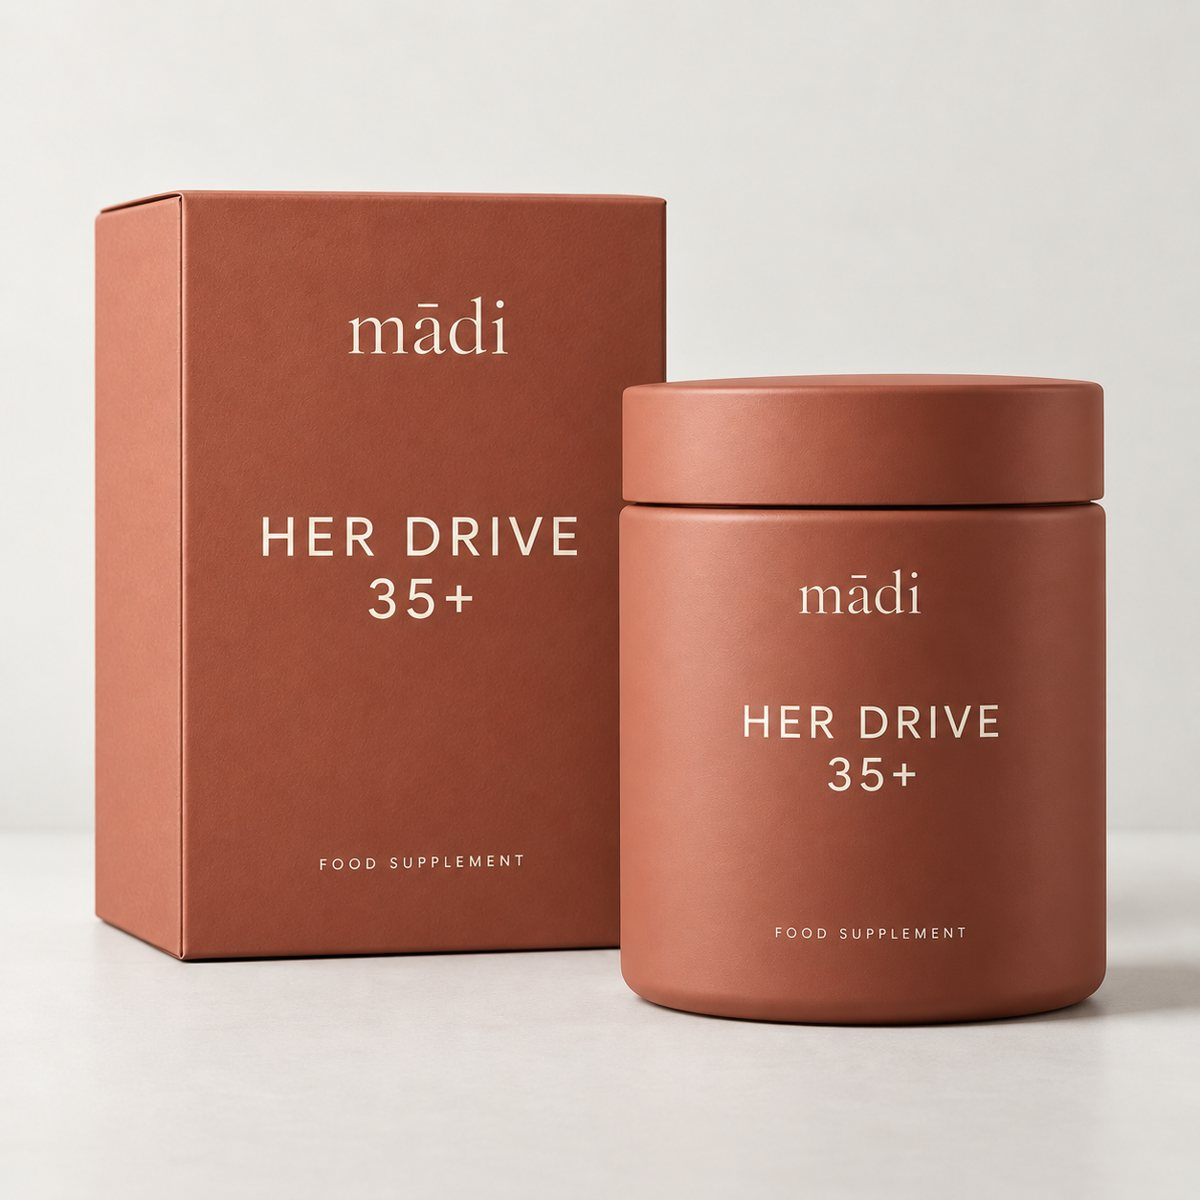
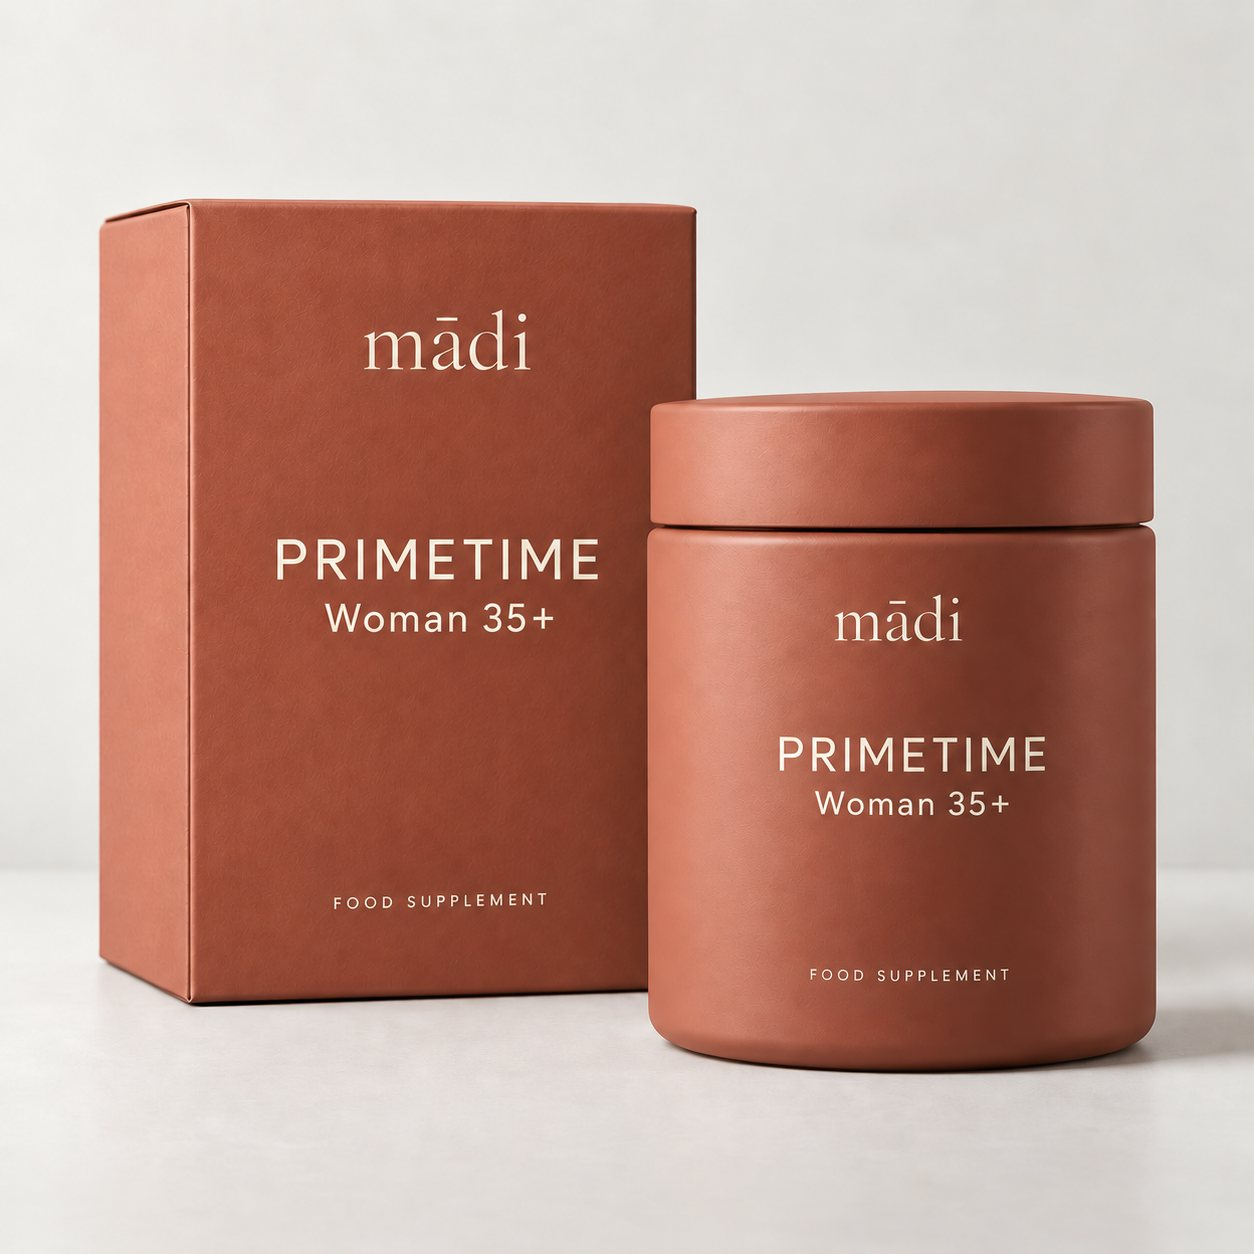
Primetime: nový produktový vizuál, podtitul Woman 35+ podľa obalu
Claude-Session: https://claude.ai/code/session_01QEA8oiqCDmsmMpnMAWKymD

Changed region(s): [[0.2158, 0.4317, 0.4933, 0.5242], [0.6167, 0.5858, 0.8325, 0.6783], [0.37, 0.2467, 0.4008, 0.2775]]

diff --git a/assets/js/products.js b/assets/js/products.js
@@ -78,7 +78,7 @@ window.MADI_PRODUCTS = [
   {
     id: "her-drive-35",
     name: "Primetime",
-    subtitle: "For Women 35+",
+    subtitle: "Woman 35+",
     line: "Cíť sa lepšie dnes",
     tagline: "Podpor to, ako chceš starnúť zajtra",
     pack: "Kapsuly · 30 dní",
